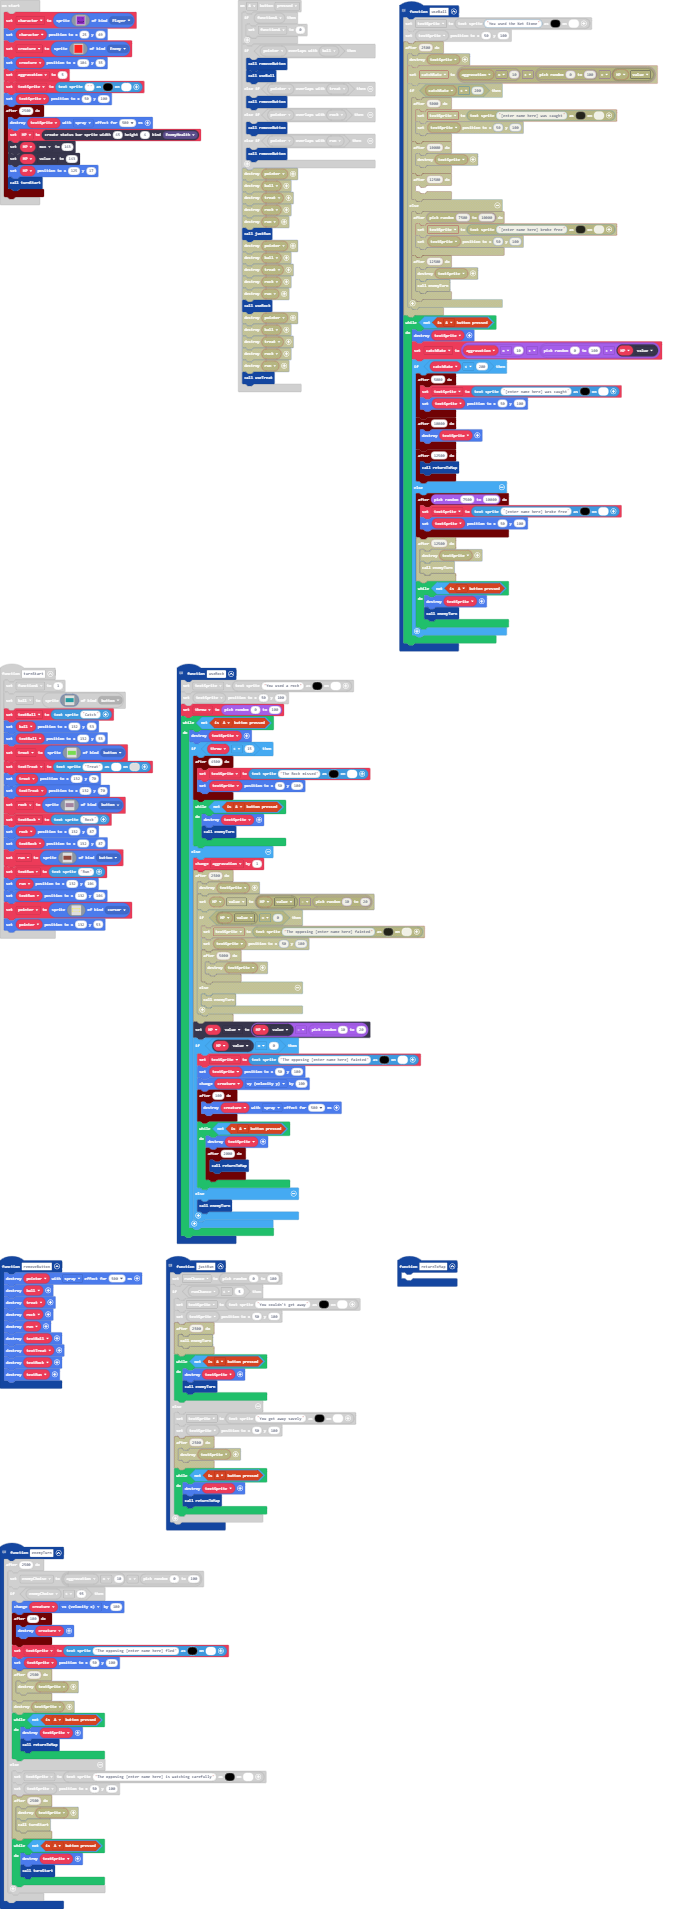
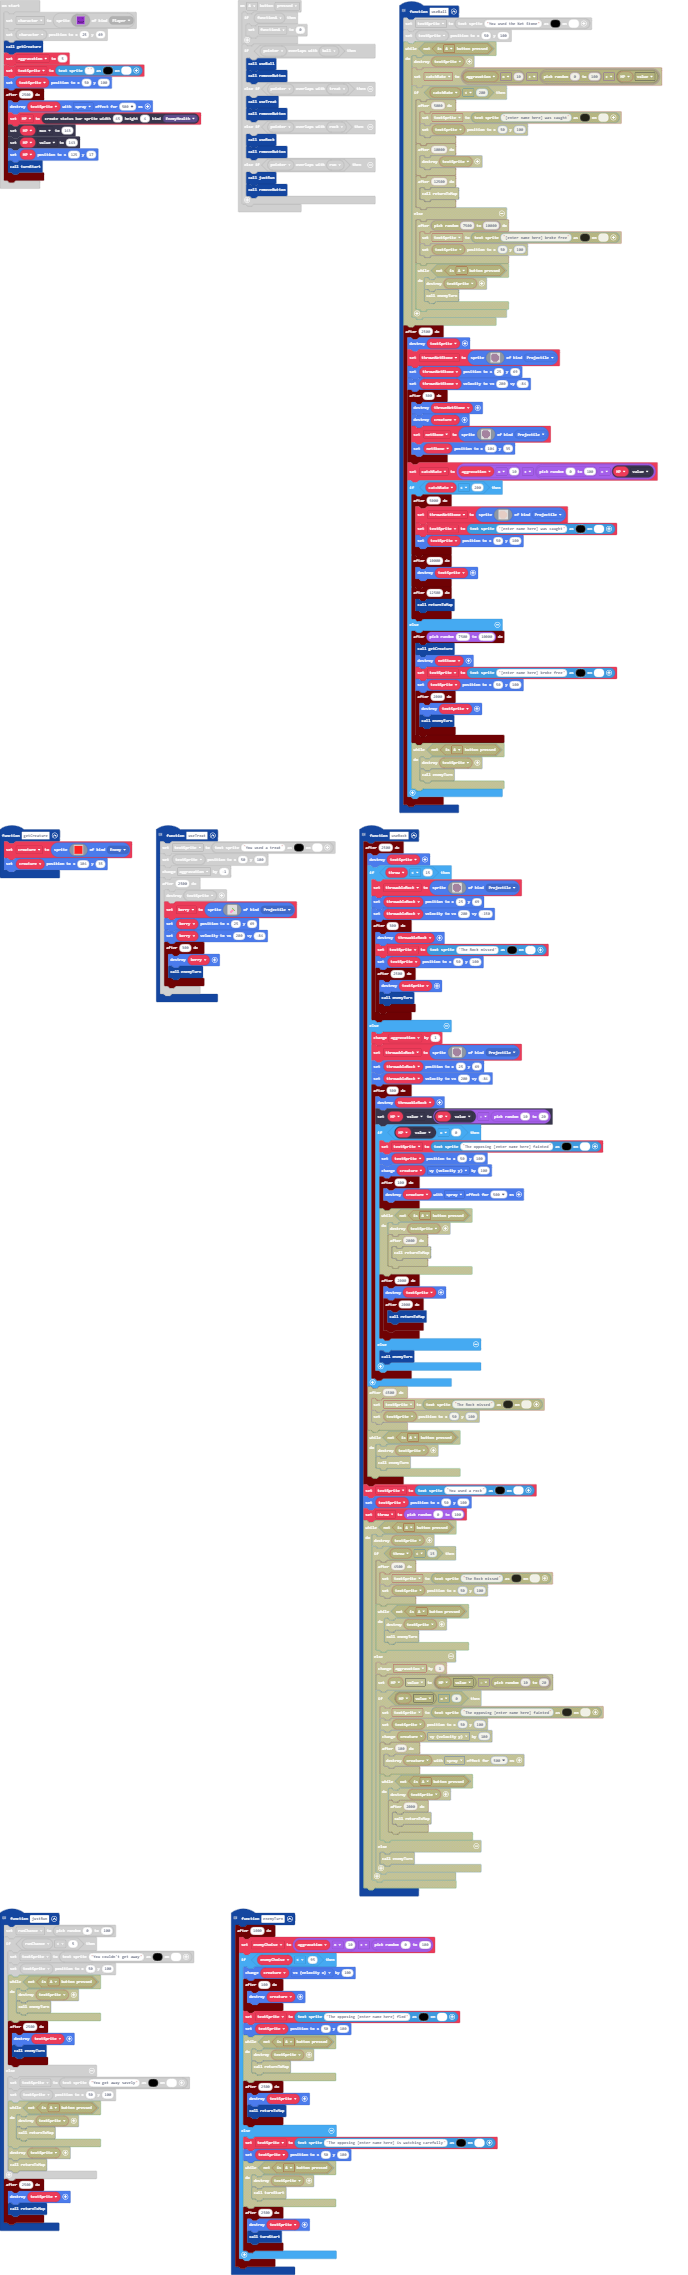
player can throw now

diff --git a/main.ts b/main.ts
@@ -9,8 +9,44 @@ function useTreat () {
     aggravation += -1
     timer.after(2500, function () {
         textSprite.destroy()
-        enemyTurn()
+        berry = sprites.create(img`
+            . . . . . . . . 
+            . . . . . . . . 
+            . . . . 7 . . . 
+            . . . . 3 7 . . 
+            . . . 3 3 3 7 . 
+            . . 3 3 3 . . . 
+            . . 3 3 . . . . 
+            . . . . . . . . 
+            `, SpriteKind.Projectile)
+        berry.setPosition(25, 69)
+        berry.setVelocity(200, -84)
+        timer.after(300, function () {
+            berry.destroy()
+            enemyTurn()
+        })
     })
+}
+function getCreature () {
+    creature = sprites.create(img`
+        2 2 2 2 2 2 2 2 2 2 2 2 2 2 2 2 
+        2 2 2 2 2 2 2 2 2 2 2 2 2 2 2 2 
+        2 2 2 2 2 2 2 2 2 2 2 2 2 2 2 2 
+        2 2 2 2 2 2 2 2 2 2 2 2 2 2 2 2 
+        2 2 2 2 2 2 2 2 2 2 2 2 2 2 2 2 
+        2 2 2 2 2 2 2 2 2 2 2 2 2 2 2 2 
+        2 2 2 2 2 2 2 2 2 2 2 2 2 2 2 2 
+        2 2 2 2 2 2 2 2 2 2 2 2 2 2 2 2 
+        2 2 2 2 2 2 2 2 2 2 2 2 2 2 2 2 
+        2 2 2 2 2 2 2 2 2 2 2 2 2 2 2 2 
+        2 2 2 2 2 2 2 2 2 2 2 2 2 2 2 2 
+        2 2 2 2 2 2 2 2 2 2 2 2 2 2 2 2 
+        2 2 2 2 2 2 2 2 2 2 2 2 2 2 2 2 
+        2 2 2 2 2 2 2 2 2 2 2 2 2 2 2 2 
+        2 2 2 2 2 2 2 2 2 2 2 2 2 2 2 2 
+        2 2 2 2 2 2 2 2 2 2 2 2 2 2 2 2 
+        `, SpriteKind.Enemy)
+    creature.setPosition(104, 35)
 }
 controller.up.onEvent(ControllerButtonEvent.Pressed, function () {
     if (functionA) {
@@ -25,56 +61,84 @@ controller.A.onEvent(ControllerButtonEvent.Pressed, function () {
         functionA = 0
     }
     if (pointer.overlapsWith(ball)) {
-        removeButton()
         useBall()
+        removeButton()
     } else if (pointer.overlapsWith(treat)) {
-        removeButton()
         useTreat()
+        removeButton()
     } else if (pointer.overlapsWith(rock)) {
-        removeButton()
         useRock()
-    } else if (pointer.overlapsWith(run)) {
         removeButton()
+    } else if (pointer.overlapsWith(run)) {
         justRun()
+        removeButton()
     }
 })
 // throw a rock to deal damage, making it harder to catch, but less likely to run
 function useRock () {
+    timer.after(2500, function () {
+        textSprite.destroy()
+        if (_throw < 15) {
+            throwableRock = sprites.create(img`
+                . b b b b b . . 
+                b b b b b b b . 
+                b b b b b b b b 
+                b b b b b b b b 
+                b b b b b b b b 
+                b b b b b b b b 
+                . b b b b b b . 
+                . . b b b b . . 
+                `, SpriteKind.Projectile)
+            throwableRock.setPosition(25, 69)
+            throwableRock.setVelocity(200, -150)
+            timer.after(300, function () {
+                throwableRock.destroy()
+                textSprite = textsprite.create("The Rock missed", 1, 15)
+                textSprite.setPosition(50, 100)
+                timer.after(2500, function () {
+                    textSprite.destroy()
+                    enemyTurn()
+                })
+            })
+        } else {
+            aggravation += 1
+            throwableRock = sprites.create(img`
+                . b b b b b . . 
+                b b b b b b b . 
+                b b b b b b b b 
+                b b b b b b b b 
+                b b b b b b b b 
+                b b b b b b b b 
+                . b b b b b b . 
+                . . b b b b . . 
+                `, SpriteKind.Projectile)
+            throwableRock.setPosition(25, 69)
+            throwableRock.setVelocity(200, -84)
+            timer.after(300, function () {
+                throwableRock.destroy()
+                HP.value = HP.value - randint(10, 20)
+                if (HP.value == 0) {
+                    textSprite = textsprite.create("The opposing [enter name here] fainted", 1, 15)
+                    textSprite.setPosition(50, 100)
+                    creature.vy += 100
+                    timer.after(100, function () {
+                        creature.destroy()
+                    })
+                    timer.after(2000, function () {
+                        textSprite.destroy()
+                        timer.after(2000, function () {
+                            returnToMap()
+                        })
+                    })
+                } else {
+                    enemyTurn()
+                }
+            })
+        }
+    })
     textSprite = textsprite.create("You used a rock", 1, 15)
     textSprite.setPosition(50, 100)
     _throw = randint(0, 100)
-    while (!(controller.A.isPressed())) {
-        textSprite.destroy()
-        if (_throw < 15) {
-            timer.after(4500, function () {
-                textSprite = textsprite.create("The Rock missed", 1, 15)
-                textSprite.setPosition(50, 100)
-            })
-            while (!(controller.A.isPressed())) {
-                textSprite.destroy()
-                enemyTurn()
-            }
-        } else {
-            aggravation += 1
-            HP.value = HP.value - randint(10, 20)
-            if (HP.value == 0) {
-                textSprite = textsprite.create("The opposing [enter name here] fainted", 1, 15)
-                textSprite.setPosition(50, 100)
-                creature.vy += 100
-                timer.after(100, function () {
-                    creature.destroy()
-                })
-                while (!(controller.A.isPressed())) {
-                    textSprite.destroy()
-                    timer.after(2000, function () {
-                        returnToMap()
-                    })
-                }
-            } else {
-                enemyTurn()
-            }
-        }
-    }
 }
 function turnStart () {
     functionA = 1
@@ -188,18 +252,18 @@ function justRun () {
     if (runChance < 5) {
         textSprite = textsprite.create("You couldn't get away", 1, 15)
         textSprite.setPosition(50, 100)
-        while (!(controller.A.isPressed())) {
+        timer.after(2500, function () {
             textSprite.destroy()
             enemyTurn()
-        }
+        })
     } else {
         textSprite = textsprite.create("You got away savely", 1, 15)
         textSprite.setPosition(50, 100)
-        while (!(controller.A.isPressed())) {
-            textSprite.destroy()
-            returnToMap()
-        }
     }
+    timer.after(2500, function () {
+        textSprite.destroy()
+        returnToMap()
+    })
 }
 controller.down.onEvent(ControllerButtonEvent.Pressed, function () {
     if (functionA) {
@@ -211,7 +275,7 @@ controller.down.onEvent(ControllerButtonEvent.Pressed, function () {
 })
 // make the enemy make its move
 function enemyTurn () {
-    timer.after(2500, function () {
+    timer.after(1000, function () {
         enemyChoise = aggravation * 10 + randint(0, 100)
         if (enemyChoise < 95) {
             creature.vx += 100
@@ -220,17 +284,17 @@ function enemyTurn () {
             })
             textSprite = textsprite.create("The opposing [enter name here] fled", 1, 15)
             textSprite.setPosition(50, 100)
-            while (!(controller.A.isPressed())) {
+            timer.after(2500, function () {
                 textSprite.destroy()
                 returnToMap()
-            }
+            })
         } else {
             textSprite = textsprite.create("The opposing [enter name here] is watching carefully", 1, 15)
             textSprite.setPosition(50, 100)
-            while (!(controller.A.isPressed())) {
+            timer.after(2500, function () {
                 textSprite.destroy()
                 turnStart()
-            }
+            })
         }
     })
 }
@@ -241,11 +305,48 @@ function returnToMap () {
 function useBall () {
     textSprite = textsprite.create("You used the Net Stone", 1, 15)
     textSprite.setPosition(50, 100)
-    while (!(controller.A.isPressed())) {
+    timer.after(2500, function () {
         textSprite.destroy()
+        thrownNetStone = sprites.create(img`
+            . b b b b b . . 
+            b b b b b b b . 
+            b b b b b b b b 
+            b b b b b b b b 
+            b b b b b b b b 
+            b b b b b b b b 
+            . b b b b b b . 
+            . . b b b b . . 
+            `, SpriteKind.Projectile)
+        thrownNetStone.setPosition(25, 69)
+        thrownNetStone.setVelocity(200, -84)
+        timer.after(300, function () {
+            thrownNetStone.destroy()
+            creature.destroy()
+            netStone = sprites.create(img`
+                . b b b b b . . 
+                b b b b b b b . 
+                b b b b b b b b 
+                b b b b b b b b 
+                b b b b b b b b 
+                b b b b b b b b 
+                . b b b b b b . 
+                . . b b b b . . 
+                `, SpriteKind.Projectile)
+            netStone.setPosition(104, 35)
+        })
         catchRate = aggravation * 10 + (randint(0, 100) + HP.value)
         if (catchRate < 200) {
             timer.after(5000, function () {
+                thrownNetStone = sprites.create(img`
+                    . d d d d d . . 
+                    d d d d d d d . 
+                    d d d d d d d d 
+                    d d d d d d d d 
+                    d d d d d d d d 
+                    d d d d d d d d 
+                    . d d d d d d . 
+                    . . d d d d . . 
+                    `, SpriteKind.Projectile)
                 textSprite = textsprite.create("[enter name here] was caught", 1, 15)
                 textSprite.setPosition(50, 100)
             })
@@ -257,15 +358,17 @@ function useBall () {
             })
         } else {
             timer.after(randint(7500, 10000), function () {
+                getCreature()
+                netStone.destroy()
                 textSprite = textsprite.create("[enter name here] broke free", 1, 15)
                 textSprite.setPosition(50, 100)
+                timer.after(2000, function () {
+                    textSprite.destroy()
+                    enemyTurn()
+                })
             })
-            while (!(controller.A.isPressed())) {
-                textSprite.destroy()
-                enemyTurn()
-            }
         }
-    }
+    })
 }
 function removeButton () {
     pointer.destroy()
@@ -279,12 +382,15 @@ function removeButton () {
     textRun.destroy()
 }
 let catchRate = 0
+let netStone: Sprite = null
+let thrownNetStone: Sprite = null
 let enemyChoise = 0
 let runChance = 0
 let textRun: TextSprite = null
 let textRock: TextSprite = null
 let textTreat: TextSprite = null
 let textBall: TextSprite = null
+let throwableRock: Sprite = null
 let _throw = 0
 let run: Sprite = null
 let rock: Sprite = null
@@ -292,10 +398,11 @@ let treat: Sprite = null
 let ball: Sprite = null
 let pointer: Sprite = null
 let functionA = 0
+let creature: Sprite = null
+let berry: Sprite = null
 let HP: StatusBarSprite = null
 let textSprite: TextSprite = null
 let aggravation = 0
-let creature: Sprite = null
 let character = sprites.create(img`
     a a a a a a a a a a a a a a a a 
     a a a a a a a a a a a a a a a a 
@@ -315,25 +422,7 @@ let character = sprites.create(img`
     a a a a a a a a a a a a a a a a 
     `, SpriteKind.Player)
 character.setPosition(25, 69)
-creature = sprites.create(img`
-    2 2 2 2 2 2 2 2 2 2 2 2 2 2 2 2 
-    2 2 2 2 2 2 2 2 2 2 2 2 2 2 2 2 
-    2 2 2 2 2 2 2 2 2 2 2 2 2 2 2 2 
-    2 2 2 2 2 2 2 2 2 2 2 2 2 2 2 2 
-    2 2 2 2 2 2 2 2 2 2 2 2 2 2 2 2 
-    2 2 2 2 2 2 2 2 2 2 2 2 2 2 2 2 
-    2 2 2 2 2 2 2 2 2 2 2 2 2 2 2 2 
-    2 2 2 2 2 2 2 2 2 2 2 2 2 2 2 2 
-    2 2 2 2 2 2 2 2 2 2 2 2 2 2 2 2 
-    2 2 2 2 2 2 2 2 2 2 2 2 2 2 2 2 
-    2 2 2 2 2 2 2 2 2 2 2 2 2 2 2 2 
-    2 2 2 2 2 2 2 2 2 2 2 2 2 2 2 2 
-    2 2 2 2 2 2 2 2 2 2 2 2 2 2 2 2 
-    2 2 2 2 2 2 2 2 2 2 2 2 2 2 2 2 
-    2 2 2 2 2 2 2 2 2 2 2 2 2 2 2 2 
-    2 2 2 2 2 2 2 2 2 2 2 2 2 2 2 2 
-    `, SpriteKind.Enemy)
-creature.setPosition(104, 35)
+getCreature()
 aggravation = 5
 textSprite = textsprite.create("", 1, 15)
 textSprite.setPosition(50, 100)
